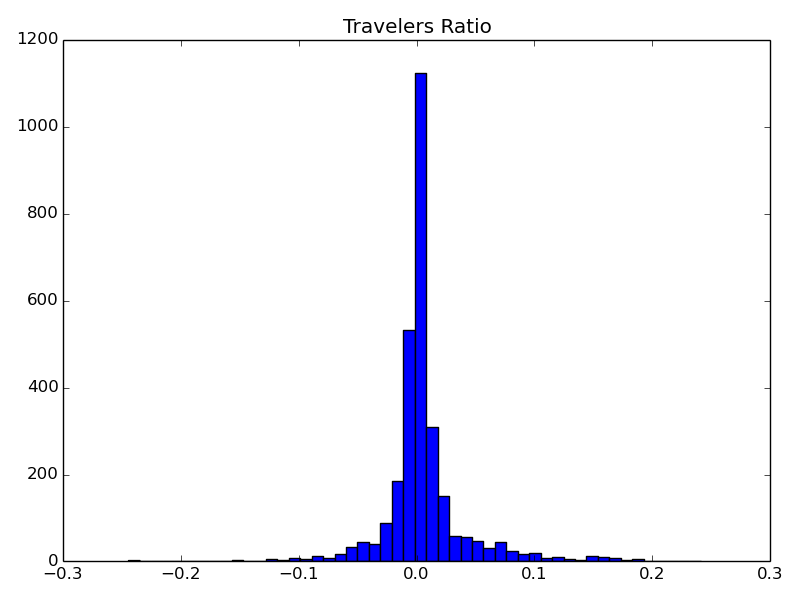
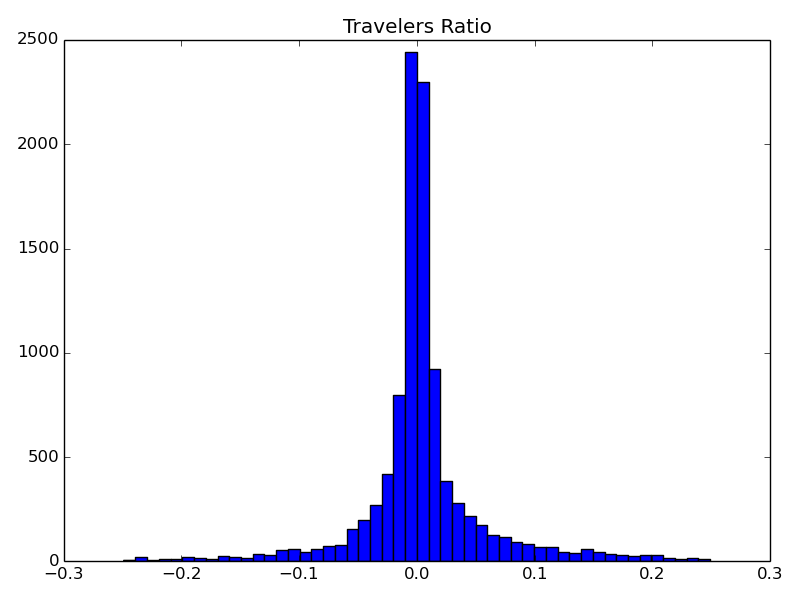
updates

Changed region(s): [[0.1562, 0.09, 0.875, 0.96], [0.0312, 0.06, 0.0938, 0.96]]

diff --git a/src/master_writer.py b/src/master_writer.py
@@ -84,7 +84,7 @@ def run(DMSOgenes,DMSOTSS,DMSOEND,CAgenes,CATSS,CAEND,filedir,figuredir):
         CAgenes = float(CAgenes)
         CATSS = float(CATSS)
         CAEND = float(CAEND)
-        if CAgenes-CATSS > 0 and DMSOgenes-DMSOTSS > 0 and CAgenes-CAEND > 0 and DMSOgenes-DMSOEND > 0 and DMSOgenes > coveragecutoff and CAgenes > coveragecutoff:
+        if CAgenes-CATSS > CATSS and DMSOgenes-DMSOTSS > DMSOTSS and CAgenes-CAEND > CAEND and DMSOgenes-DMSOEND > DMSOEND and DMSOgenes > coveragecutoff and CAgenes > coveragecutoff:
             i += 1
             TRx.append(CATSS/(CAgenes-CATSS))
             TRy.append(DMSOTSS/(DMSOgenes-DMSOTSS))
